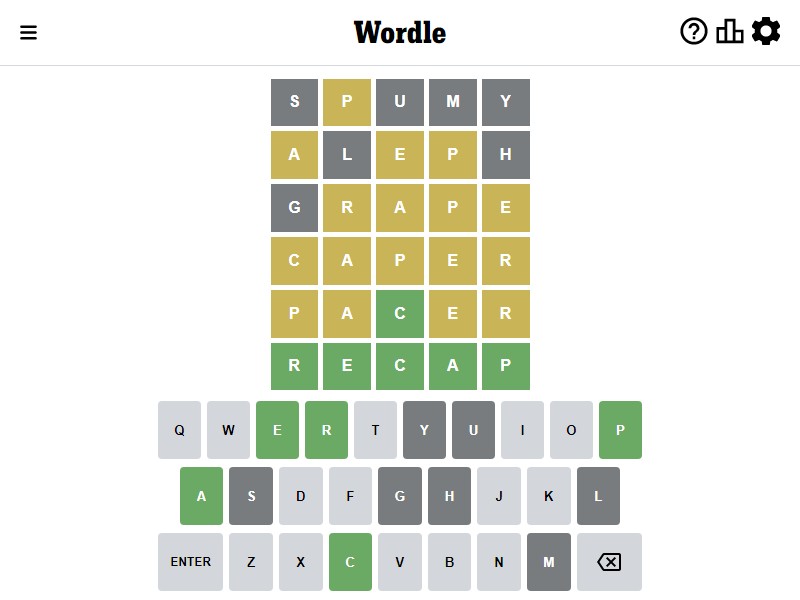
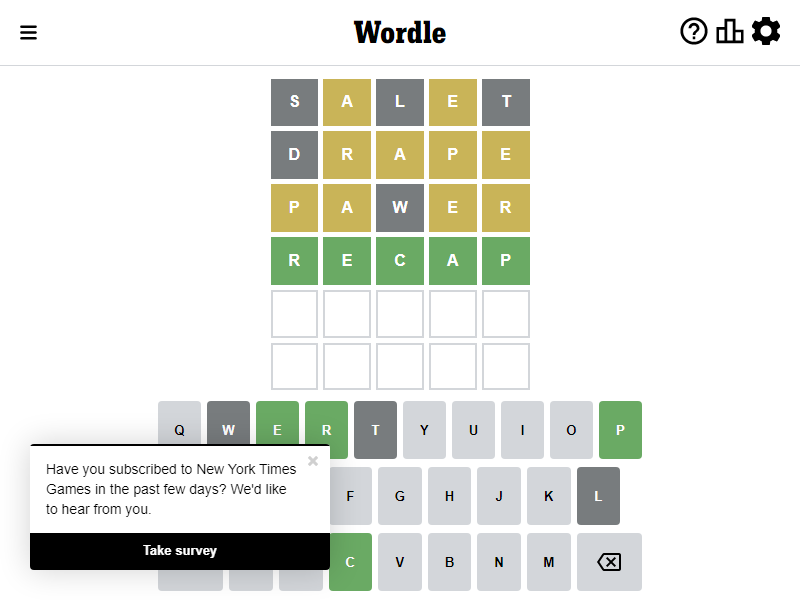
Bug fix and improved solver function

diff --git a/src/app.ts b/src/app.ts
@@ -10,7 +10,7 @@ const delay = async (time: number) => {
 };
 
 const wordleSolve = async () => {
-  let part1 = Math.round(performance.now() / 1000)
+  let part1 = Math.round(performance.now() / 1000);
   console.log(`1. Launched Browser: ${part1} seconds`);
 
   /* ---------------------------------------------------------------------------------------------- */
@@ -59,30 +59,30 @@ const wordleSolve = async () => {
       "--allow-insecure-localhost",
       "--deterministic-mode",
       "--disable-accelerated-2d-canvas",
-      "--ignore-certificate-errors"
+      "--ignore-certificate-errors",
     ],
   });
 
-  let part2 = Math.round(performance.now()/ 1000 - part1);
+  let part2 = Math.round(performance.now() / 1000 - part1);
   console.log(`2. Waiting for New Tab - ${part2} seconds`);
   const page = await browser.newPage();
 
-  let part3 = Math.round(performance.now()/ 1000 - part2)
+  let part3 = Math.round(performance.now() / 1000 - part2);
   console.log(`3. Navigate to Page: ${part3} seconds`);
   await page.goto("https://www.nytimes.com/games/wordle/index.html", {
     waitUntil: "domcontentloaded",
   });
   //@ts-ignore
-  await page._client.send('Animation.setPlaybackRate', { playbackRate: 2 });
+  await page._client.send("Animation.setPlaybackRate", { playbackRate: 2 });
 
   /* ---------------------------------------------------------------------------------------------- */
   /*                                 Close cookie and accept prompt                                 */
   /* ---------------------------------------------------------------------------------------------- */
 
-  await page.waitForSelector("#pz-gdpr-btn-accept")
+  await page.waitForSelector("#pz-gdpr-btn-accept");
   await page.click("#pz-gdpr-btn-accept");
   await page.waitForSelector(".Modal-module_closeIcon__b4z74");
-  await page.click(".Modal-module_closeIcon__b4z74")
+  await page.click(".Modal-module_closeIcon__b4z74");
   await page.waitForSelector(".Row-module_row__dEHfN");
 
   /* -------------------------------------- Typing best starter word -------------------------------------- */
@@ -92,28 +92,22 @@ const wordleSolve = async () => {
     await delay(3000);
   };
 
-  await typer("spumy");
+  await typer("salet");
 
   let correct: string[] = ["", "", "", "", ""];
   let present: string[] = [];
   let exclude: string[] = [];
   let guess: string[] = ["salet"];
 
-
   await page.exposeFunction("solver", solver.solver);
 
   for (let rowNumber = 0; rowNumber <= 25; rowNumber += 5) {
     const row: any = await page.evaluate(
-      (
-        rowNumber,
-        correct,
-        present,
-        exclude,
-        guess,
-      ) => {
-        
+      (rowNumber, correct, present, exclude, guess) => {
         /* -------------------- Get all letter tiles from each row and turn to array -------------------- */
-        const letterTiles = Array.from(document.querySelectorAll(".Tile-module_tile__3ayIZ")).splice(0 + rowNumber, rowNumber + 5);
+        const letterTiles = Array.from(
+          document.querySelectorAll(".Tile-module_tile__3ayIZ")
+        ).splice(0 + rowNumber, rowNumber + 5);
 
         letterTiles.forEach((letter, index) => {
           // Get the letter from each tile
@@ -126,36 +120,44 @@ const wordleSolve = async () => {
         });
 
         return { correct, present, exclude, guess };
-      },rowNumber, correct, present, exclude, guess);
+      },
+      rowNumber,
+      correct,
+      present,
+      exclude
+    );
 
     /* ---------------------------- Update values from browser evaluation --------------------------- */
     correct = row.correct || [];
     present = row.present || [];
     exclude = row.exclude || [];
-    guess = row.guess || [];
-    
-    if (lodash.without(correct,"").length === 5) break
-    const solverKeywords = await solver.solver(correct, present, exclude, guess)
-    // @ts-ignore
-    const sortedKeywords = solverKeywords.sort((a:string , b: string ) => {
-      if (new Set(a).size > new Set(b).size) return -1
-    })
-    const nextWord = lodash.sample(sortedKeywords.splice(0, 10))
-    guess = [...guess, nextWord]
-    await typer(nextWord);
-    // console.log(row)
-    // console.log(nextWord)
-    // console.log(solverKeywords)
 
+    if (lodash.without(correct, "").length === 5) break;
+    const solverKeywords = await solver.solver(
+      correct,
+      present,
+      exclude,
+      guess
+    );
+    console.log(solverKeywords)
+    // @ts-ignore
+    const sortedKeywords = solverKeywords.sort((a: string, b: string) => {
+      if (new Set(a).size > new Set(b).size) return -1;
+    });
+    const nextWord = lodash.sample(sortedKeywords).slice(0, 10);
+    guess.push(nextWord);
+    await typer(nextWord);
   }
-  
+
   /* --------------- Closes the stats modal when successful then takes a screenshot --------------- */
   await page.waitForSelector(".Modal-module_closeIcon__b4z74");
   page.click(".Modal-module_closeIcon__b4z74");
-  await page.waitForSelector(".Modal-module_closeIcon__b4z74", {hidden:true});
-  let part4 = Math.round(performance.now() / 1000)
-  console.log(`4. Screenshot: ${part4  - part3} seconds`);
-  await page.screenshot({path: "./results.png"});
+  await page.waitForSelector(".Modal-module_closeIcon__b4z74", {
+    hidden: true,
+  });
+  let part4 = Math.round(performance.now() / 1000);
+  console.log(`4. Screenshot: ${part4 - part3} seconds`);
+  await page.screenshot({ path: "./results.png" });
   await browser.close();
 };
 

diff --git a/src/solver.ts b/src/solver.ts
@@ -1,5 +1,4 @@
 import { readFileSync, promises as fsPromises } from "fs";
-import lodash from "lodash"
 
 const syncReadFile = (filename: any) => {
   const contents = readFileSync(filename, "utf-8");
@@ -23,11 +22,7 @@ const filterCorrect = (correct: string[]) => {
 };
 
 /* ---------------------- Present Filter ---------------------- */
-const filterPresent = (
-  filterCorrect: string[],
-  correct: string[],
-  present: string[]
-) => {
+const filterPresent = (filterCorrect: string[], present: string[]) => {
   const results: string[] = filterCorrect
     .map((word: any) => {
       if (present.join("").length === 0) return word;
@@ -42,33 +37,65 @@ const filterExclude = (
   filterPresent: string[],
   exclude: string[],
   present: string[],
-  correct: string[]
+  correct: string[],
+  guess: string[]
 ) => {
   const results: string[] = filterPresent
     .map((word: any) => {
       if (exclude.join("").length === 0) return word;
-      const dedupe = exclude.filter(
-        x => ![...present, ...correct].includes(x)
+      const deDupe = exclude.filter(
+        (x) => ![...present, ...correct].includes(x)
       );
-      const regexExclude = new RegExp(`[${dedupe.join("")}]`);
+      const regexExclude = new RegExp(`[${deDupe.join("")}]`);
       if (!word.match(regexExclude)) return word;
     })
-    .filter((x) => typeof x === "string")
-    .sort();
-  return results;
+    .filter((x) => typeof x === "string");
+  return results.filter((word) => !guess.includes(word)).sort();
 };
 
-export const solver = async (correct: string[], present: string[], exclude: string[], guess: string[]) => {
-  const resultsCorrect: any[] = await filterCorrect!(correct);
-  const resultsPresent: any[] = await filterPresent(resultsCorrect, correct, present);
+const filterDuplicateIndex = (
+  filterExclude: string[],
+  correct: string[],
+  guess: string[]
+) => {
+  const finalResults = filterExclude
+    .filter((word: any) => {
+      const regexExcludeCorrect = new RegExp(`[${correct}]`, "g");
+      const previousWord = guess
+        .slice(-1)
+        .join("")
+        .replace(regexExcludeCorrect, "");
+      const potentialWord = word.replace(regexExcludeCorrect, "");
+      const containDuplicatePresent = [...previousWord].some((item: string) => {
+        if (previousWord.indexOf(item) === potentialWord.indexOf(item))
+          return true;
+      });
+      return !containDuplicatePresent;
+    })
+    .sort();
+  return finalResults;
+};
+
+export const solver = async (
+  correct: string[],
+  present: string[],
+  exclude: string[],
+  guess: string[]
+) => {
+  const resultsCorrect: any[] = await filterCorrect(correct);
+  const resultsPresent: any[] = await filterPresent(resultsCorrect, present);
   const resultsExclude: any[] = await filterExclude(
     resultsPresent,
     exclude,
     present,
-    correct
+    correct,
+    guess
   );
-  const resultGuess: any[] = resultsExclude.filter(word => !guess.includes(word))
-  return resultGuess;
+  const resultsDuplicateIndex: any[] = await filterDuplicateIndex(
+    resultsExclude,
+    correct,
+    guess
+  );
+
+  return resultsDuplicateIndex;
 };
-
-
